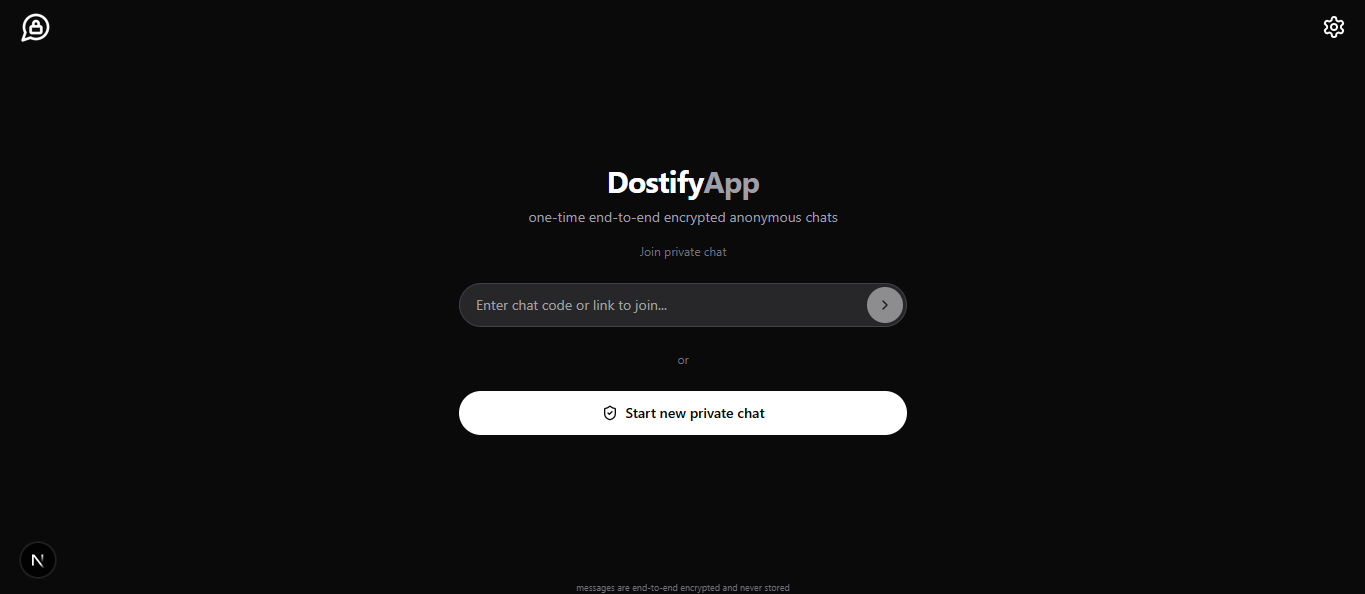
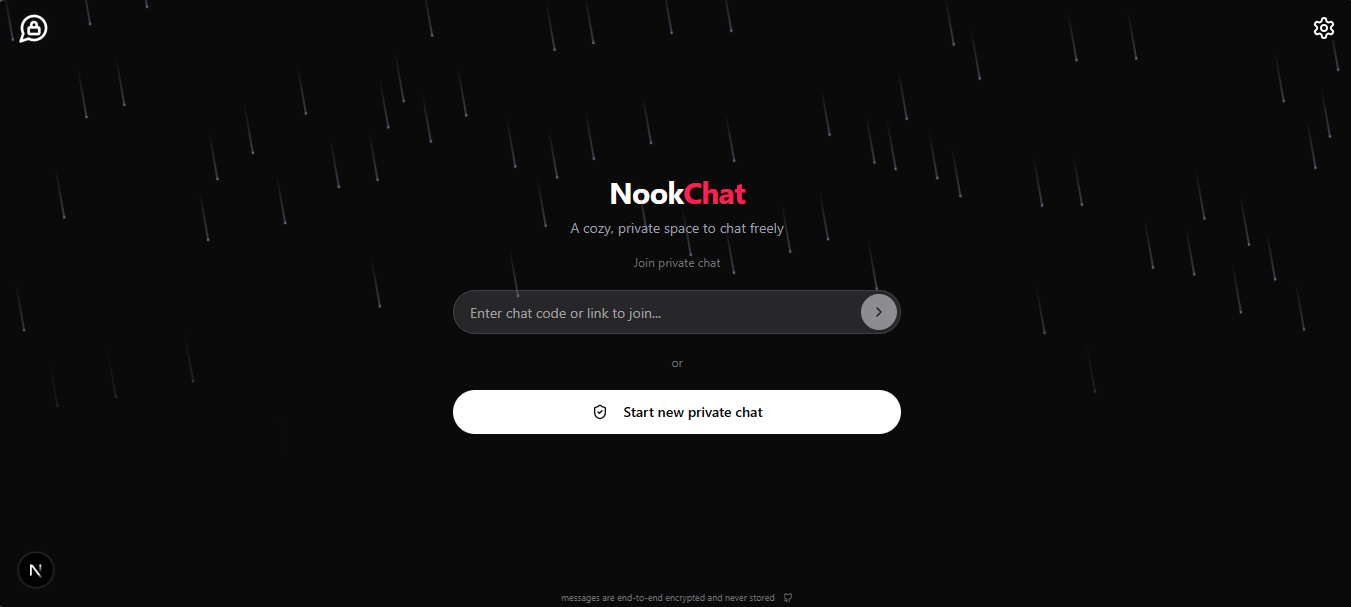
feat: rename project from DostifyApp to NookChat and update related configurations

diff --git a/client/src/app/layout.tsx b/client/src/app/layout.tsx
@@ -15,24 +15,40 @@ const geistMono = Geist_Mono( {
 } );
 
 export const metadata: Metadata = {
-  // metadataBase: new URL( "http://localhost:3000" ),
-  title: "DostifyApp - Private and Secure Chat",
-  description: "DostifyApp is a secure and anonymous chat app for one-time private conversations. Chat in real-time with end-to-end encryption.",
-  keywords: ["anonymous chat", "real-time messaging", "end-to-end encryption", "private chat", "secure messaging", "chat app", "DostifyApp"], // Ensure keywords is not null or undefined
+  metadataBase: new URL( "https://nookchat" ),
+  title: "NookChat – Private, One-Time Encrypted Chat",
+  description: "NookChat is a secure and anonymous chat app for one-time, end-to-end encrypted conversations. No login. No traces. Just private talk in a cozy digital nook.",
+  keywords: [
+    "NookChat",
+    "anonymous chat",
+    "one-time messaging",
+    "encrypted chat",
+    "private chat app",
+    "ephemeral messaging",
+    "secure conversations"
+  ], // Ensure keywords is not null or undefined
   authors: [{ name: "Dharmendra Kumar" }],
   openGraph: {
-    title: "DostifyApp - Private and Secure Chat",
-    description: "DostifyApp is a secure and anonymous chat app for one-time private conversations. Chat in real-time with end-to-end encryption.",
-    url: "",  // Replace with your actual domain
-    images: [{ url: "/public/logo-md.png" } as { url: string }], // Explicitly define 'images' as an array of objects with 'url'
-    siteName: "DostifyApp",
+    title: "NookChat – Private, One-Time Encrypted Chat",
+    description: "Step into a secure, cozy space for anonymous, end-to-end encrypted chats. Your messages vanish after the talk.",
+    url: "https://nookchat",
+    images: [{
+      url: "/logo-md.png"
+    } as { url: string }], // Explicitly define 'images'
+    siteName: "NookChat",
   },
   twitter: {
-    card: "summary_large_image",  // Large image card for Twitter
-    title: "DostifyApp - Private and Secure Chat",
-    description: "DostifyApp is a secure and anonymous chat app for one-time private conversations. Chat in real-time with end-to-end encryption.",
-    images: ["/public/logo-md.png"], // Use the same image for Twitter
+    card: "summary_large_image",
+    title: "NookChat – One-Time, Private Chat",
+    description: "A cozy and secure place for private, disappearing conversations.",
+    images: ["/public/logo-md.png"],
   },
+  icons: {
+    icon: "/favicon.ico",
+    shortcut: "/favicon.ico",
+    apple: "/logo-md.png",
+  },
+  themeColor: "#1E1E2F",
   robots: {
     index: true,              // Allow search engines to index the site
     follow: true,             // Allow search engines to follow links
@@ -69,7 +85,7 @@ export default function RootLayout( {
         <meta name="twitter:description" content={metadata.twitter?.description ?? ""} />
         <meta name="twitter:image" content={metadata.twitter?.images?.[0] ?? ""} />
 
-        <title>{String( metadata.title ?? "DostifyApp" )}</title>
+        <title>{String( metadata.title ?? "NookChat" )}</title>
 
         {/* Fonts */}
         <link rel="icon" href="/favicon.ico" />

diff --git a/server/cors-config.js b/server/cors-config.js
@@ -1,48 +1,46 @@
 import cors from "cors";
 
 // Function to create appropriate CORS configuration based on environment
-export const configureCors = (app) => {
+export const configureCors = ( app ) => {
   const allowedOrigins = [
-    "https://dostify-client.onrender.com", // Production client on Render
-    "https://dostifyapp.vercel.app", // Production client on Vercel
-    "https://dostifyapp-client.vercel.app", // Alternative domain on Vercel
+    "https://nookchat.vercel.app", // Production client on Vercel
+    "https://nookchat-client.vercel.app", // Alternative domain on Vercel
     "http://localhost:3000" // Local development
   ];
 
   // Apply CORS middleware with configuration
-  app.use(cors({
-    origin: function(origin, callback) {
+  app.use( cors( {
+    origin: function ( origin, callback ) {
       // Allow requests with no origin (like mobile apps, curl, etc.)
-      if (!origin) return callback(null, true);
-      
-      if (allowedOrigins.indexOf(origin) !== -1) {
-        callback(null, true);
+      if ( !origin ) return callback( null, true );
+
+      if ( allowedOrigins.indexOf( origin ) !== -1 ) {
+        callback( null, true );
       } else {
-        callback(new Error('Not allowed by CORS'));
+        callback( new Error( 'Not allowed by CORS' ) );
       }
     },
     methods: ["GET", "POST"],
-  }));
+  } ) );
 };
 
 // Configure Socket.IO CORS settings
 export const socketCorsConfig = {
   cors: {
-    origin: (origin, callback) => {
+    origin: ( origin, callback ) => {
       // Allow requests with no origin (like mobile apps, curl, etc.)
-      if (!origin) return callback(null, true);
-        const allowedOrigins = [
-        "https://dostifyapp.vercel.app", // Production client on Vercel
+      if ( !origin ) return callback( null, true ); const allowedOrigins = [
+        "https://nookchat.vercel.app", // Production client on Vercel
         "http://localhost:3000" // Local development
       ];
-      
-      if (allowedOrigins.indexOf(origin) !== -1) {
-        callback(null, true);
+
+      if ( allowedOrigins.indexOf( origin ) !== -1 ) {
+        callback( null, true );
       } else {
-        callback(new Error('Not allowed by CORS'));
+        callback( new Error( 'Not allowed by CORS' ) );
       }
     },
     methods: ["GET", "POST"],
   },
-   allowEIO3: true, // Support older clients (including some mobile browsers)
+  allowEIO3: true, // Support older clients (including some mobile browsers)
 };

diff --git a/client/src/components/privacy/Privacy.tsx b/client/src/components/privacy/Privacy.tsx
@@ -8,29 +8,25 @@ const Privacy = () => {
                 <div className="flex items-center gap-2">
                     <LockKeyhole size={18} />
                     <h4 className="text-sm font-medium">End-to-End Encrypted</h4>
-                </div>
-
-                {/* <!-- Description paragraph --> */}
+                </div>                {/* <!-- Description paragraph --> */}
                 <p className="mt-2 text-xs text-zinc-500 dark:text-zinc-400">
-                    dostifyapp uses end-to-end encryption for all messages. This means:
+                    NookChat creates a secure digital nook for your private conversations with robust end-to-end encryption:
                 </p>
 
                 {/* <!-- Bullet points list --> */}
                 <ul className="mt-2 list-disc space-y-2 pl-5 text-xs text-zinc-500 dark:text-zinc-400">
                     <li>Messages are encrypted on your device before being sent</li>
-                    <li>Only you and your chat partner(s) can read the messages</li>
-                    <li>Messages are never stored on our servers</li>
-                    <li>When the chat ends, messages are gone forever</li>
-                    <li>Even we cannot read your messages</li>
-                    <li>Just refresh to delete</li>
+                    <li>Only you and your chat partner(s) hold the keys to decrypt messages</li>
+                    <li>Conversations exist only during your session — never stored on servers</li>
+                    <li>When you leave, your messages vanish completely</li>
+                    <li>Zero knowledge design: even we can&apos;t read your messages</li>
+                    <li>Simply refresh or close to permanently delete all traces</li>
                 </ul>
-
 
                 <div role="none" className="my-2 h-px w-full shrink-0 bg-zinc-200 dark:bg-zinc-900"></div>
 
-                {/* <!-- Footer note --> */}
-                <p className="text-xs italic text-zinc-500 dark:text-zinc-400">
-                    Your privacy is our priority. dostifyapp was built to provide a truly private messaging experience.
+                {/* <!-- Footer note --> */}                <p className="text-xs italic text-zinc-500 dark:text-zinc-400">
+                    Your privacy isn&apos;t just a feature, it&apos;s our foundation. NookChat was built to provide a truly private space where conversations remain yours alone.
                 </p>
             </div>
 

diff --git a/client/next.config.ts b/client/next.config.ts
@@ -1,22 +1,23 @@
 import type { NextConfig } from "next";
 
 const nextConfig: NextConfig = {
-  
+
   async rewrites() {
-    return [
-      {        source: '/api/:path*',
-        destination: process.env.NODE_ENV === 'production' 
-          ? process.env.SERVER_URL || 'https://dostifyapp-production.up.railway.app/api/:path*'
-          : 'http://localhost:5000/api/:path*',
-      },
-      {        source: '/socket.io/:path*',
-        destination: process.env.NODE_ENV === 'production'
-          ? 'https://dostifyapp-production.up.railway.app/socket.io/:path*'
-          : 'http://localhost:5000/socket.io/:path*',
-      }
+    return [{
+      source: '/api/:path*',
+      destination: process.env.NODE_ENV === 'production'
+        ? process.env.SERVER_URL || 'https://nookchat-production.up.railway.app/api/:path*'
+        : 'http://localhost:5000/api/:path*',
+    },
+    {
+      source: '/socket.io/:path*',
+      destination: process.env.NODE_ENV === 'production'
+        ? 'https://nookchat-production.up.railway.app/socket.io/:path*'
+        : 'http://localhost:5000/socket.io/:path*',
+    }
     ];
   },
-  
+
   // Add security headers
   async headers() {
     return [

diff --git a/client/src/app/page.tsx b/client/src/app/page.tsx
@@ -144,14 +144,15 @@ function Home() {
           {/* Title and subtitle */}
           <div className="text-center space-y-2">
             <h1 className="text-3xl font-bold tracking-tight text-zinc-950 dark:text-white">
-              Dostify<span className="text-rose-500 dark:text-rose-500">App</span>
+              Nook<span className="text-rose-500 dark:text-rose-500">Chat</span>
             </h1>
             <p className="text-sm text-zinc-600 dark:text-zinc-400">
-              one-time end-to-end encrypted anonymous chats
+              A cozy, private space to chat freely
             </p>
+            
           </div>
 
-          <div className="w-full space-y-6">
+          <div className="w-full space-y-5">
             {/* Label */}
             <div className="text-center">
               <p className="text-xs text-zinc-500 dark:text-zinc-500">Join private chat</p>

diff --git a/client/src/components/ui/UserNameModal.tsx b/client/src/components/ui/UserNameModal.tsx
@@ -45,7 +45,7 @@ export function UserNameModal() {
         <Dialog open={open} onOpenChange={setOpen}>
             <DialogContent className="sm:max-w-md">
                 <DialogHeader>
-                    <DialogTitle className="text-lg font-semibold">Welcome to DostifyApp</DialogTitle>
+                    <DialogTitle className="text-lg font-semibold">Welcome to NookChat</DialogTitle>
                 </DialogHeader>
                 <div className="py-4">
                     <p className="mb-4 text-sm text-zinc-600 dark:text-zinc-400">

diff --git a/client/src/components/header/Header.tsx b/client/src/components/header/Header.tsx
@@ -7,7 +7,7 @@ const Header = () => {
     <div className="relative">
       <div className="fixed left-5 top-7 transform -translate-y-1/2 z-11 backdrop-blur bg-background/80">
         <Link href="/">
-          <span title='DostifyApp' className="cursor-pointer">
+          <span title='NookChat' className="cursor-pointer">
             <Image src="/logo-md.png" alt="Logo" width={32} height={32} className="h-8 w-8 dark:invert" />
           </span>
         </Link>

diff --git a/client/src/components/chat/ShareChatLink.tsx b/client/src/components/chat/ShareChatLink.tsx
@@ -40,7 +40,7 @@ const ShareChatLink: React.FC<ShareChatLinkProps> = ( { roomId } ) => {
         if ( navigator.share ) {
             try {
                 await navigator.share( {
-                    title: 'Join my DostifyApp chat',
+                    title: 'Join my NookChat chat',
                     text: 'Click this link to join the private chat room:',
                     url: shareUrl,
                 } );

diff --git a/server/index.js b/server/index.js
@@ -33,7 +33,7 @@ const PORT = process.env.PORT || 5000;
 
 // Health Check
 app.get( '/', ( req, res ) => {
-    res.send( 'DostifyApp backend is running!' );
+    res.send( 'NookChat backend is running!' );
 } );
 
 // In-memory storage
